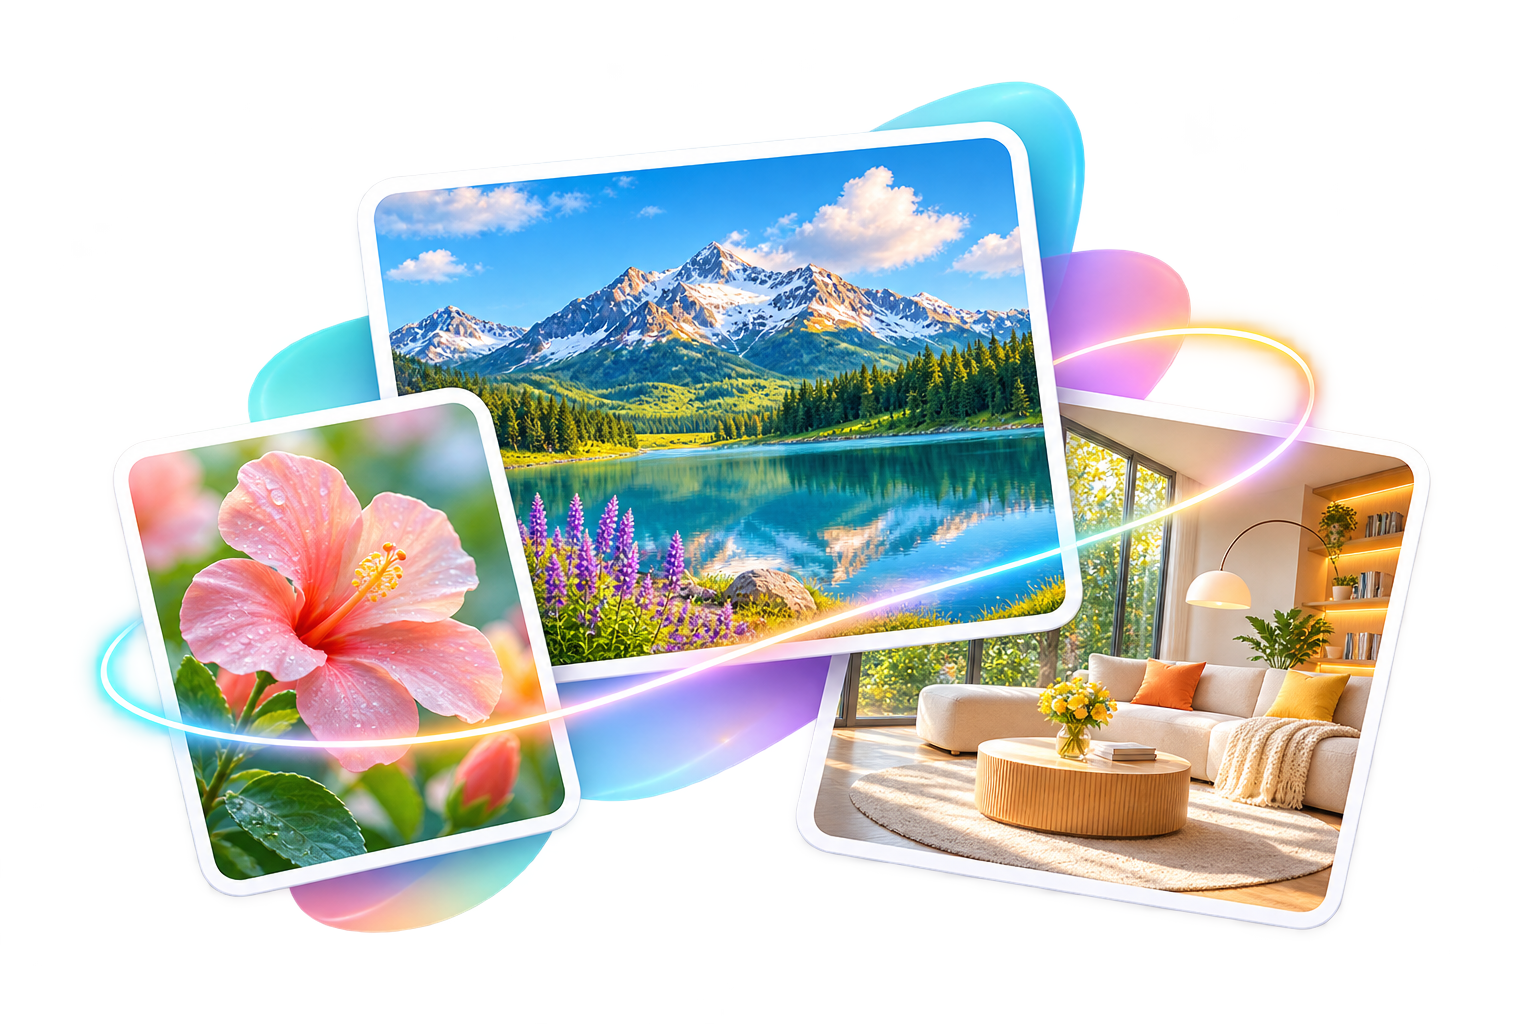
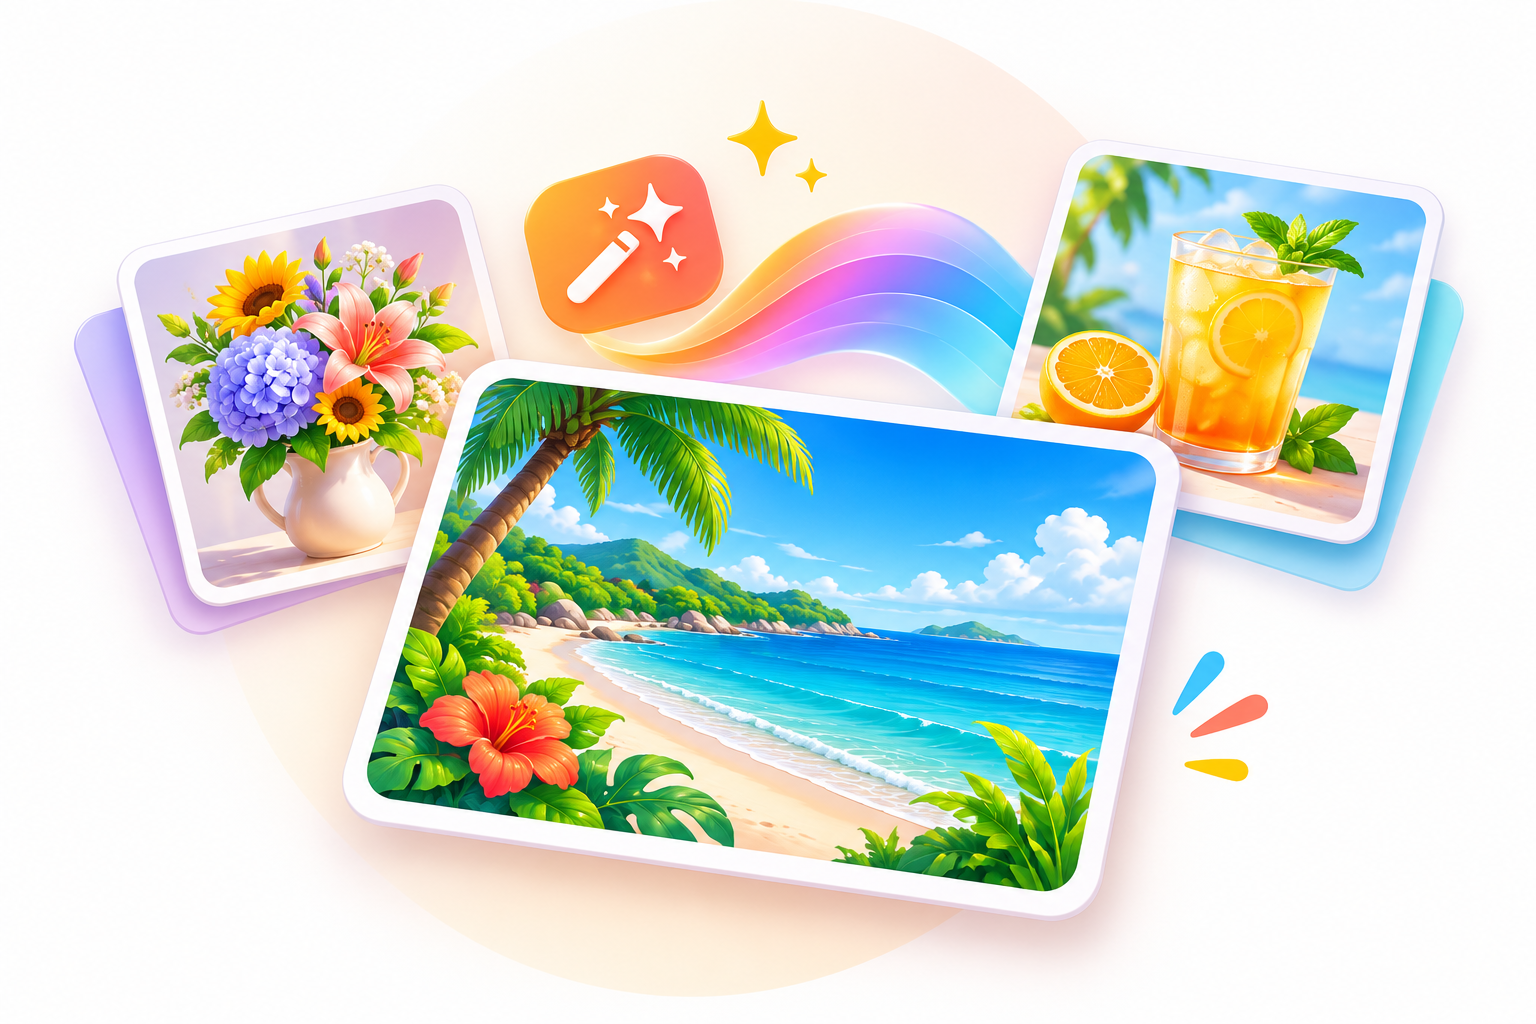
feat: refresh AI Studio hero illustrations

diff --git a/src/components/common/AssistantStudioImage.tsx b/src/components/common/AssistantStudioImage.tsx
@@ -271,7 +271,7 @@ export function AssistantStudioImage({ onBack, historyItem }: { onBack: () => vo
                 <p className="text-pretty text-sm sm:text-base text-on-surface-variant">Mô tả ý tưởng và chọn khung hình để bắt đầu.</p>
               </div>
               <div className="my-5 flex w-full justify-center">
-                <img src="/ai-studio-image-hero.png" alt="Bộ ảnh phong cảnh, hoa và nội thất được sáng tạo bằng AI" width="1536" height="1024" className="h-auto max-h-[38dvh] w-full max-w-2xl object-contain drop-shadow-xs" />
+                <img src="/ai-studio-image-hero.png" alt="Minh họa bãi biển, bình hoa và đồ uống được tạo bằng AI" width="1536" height="1024" className="h-auto max-h-[38dvh] w-full max-w-2xl object-contain drop-shadow-xs" />
               </div>
               <section aria-label="Thư viện mẫu" className="w-full max-w-4xl space-y-3.5 pt-6 sm:pt-8">
                 <h3 className="px-1 text-left text-sm font-semibold text-on-surface">Thư viện mẫu</h3>

diff --git a/src/components/common/AssistantStudioImage.test.tsx b/src/components/common/AssistantStudioImage.test.tsx
@@ -41,7 +41,7 @@ describe("AssistantStudioImage", () => {
 
   it("shows guidance and the illustration before generation", () => {
     render(<AssistantStudioImage onBack={() => {}} />);
-    expect(screen.getByRole("img", { name: "Bộ ảnh phong cảnh, hoa và nội thất được sáng tạo bằng AI" }).getAttribute("src")).toBe("/ai-studio-image-hero.png");
+    expect(screen.getByRole("img", { name: "Minh họa bãi biển, bình hoa và đồ uống được tạo bằng AI" }).getAttribute("src")).toBe("/ai-studio-image-hero.png");
     expect(screen.getByText("Mô tả ý tưởng và chọn khung hình để bắt đầu.")).toBeTruthy();
     expect(screen.queryByText("Gợi ý phong cách")).toBeNull();
   });

diff --git a/src/components/common/AssistantStudioEdit.tsx b/src/components/common/AssistantStudioEdit.tsx
@@ -339,7 +339,7 @@ export function AssistantStudioEdit({ onBack, historyItem }: { onBack: () => voi
             {/* Hero image */}
             <div className="my-5 flex w-full justify-center">
               <img
-                src="/ai-studio-image-hero.png"
+                src="/ai-studio-image-edit-hero.png"
                 alt="Minh hoạ chỉnh sửa hình ảnh bằng AI"
                 width="1536"
                 height="1024"
